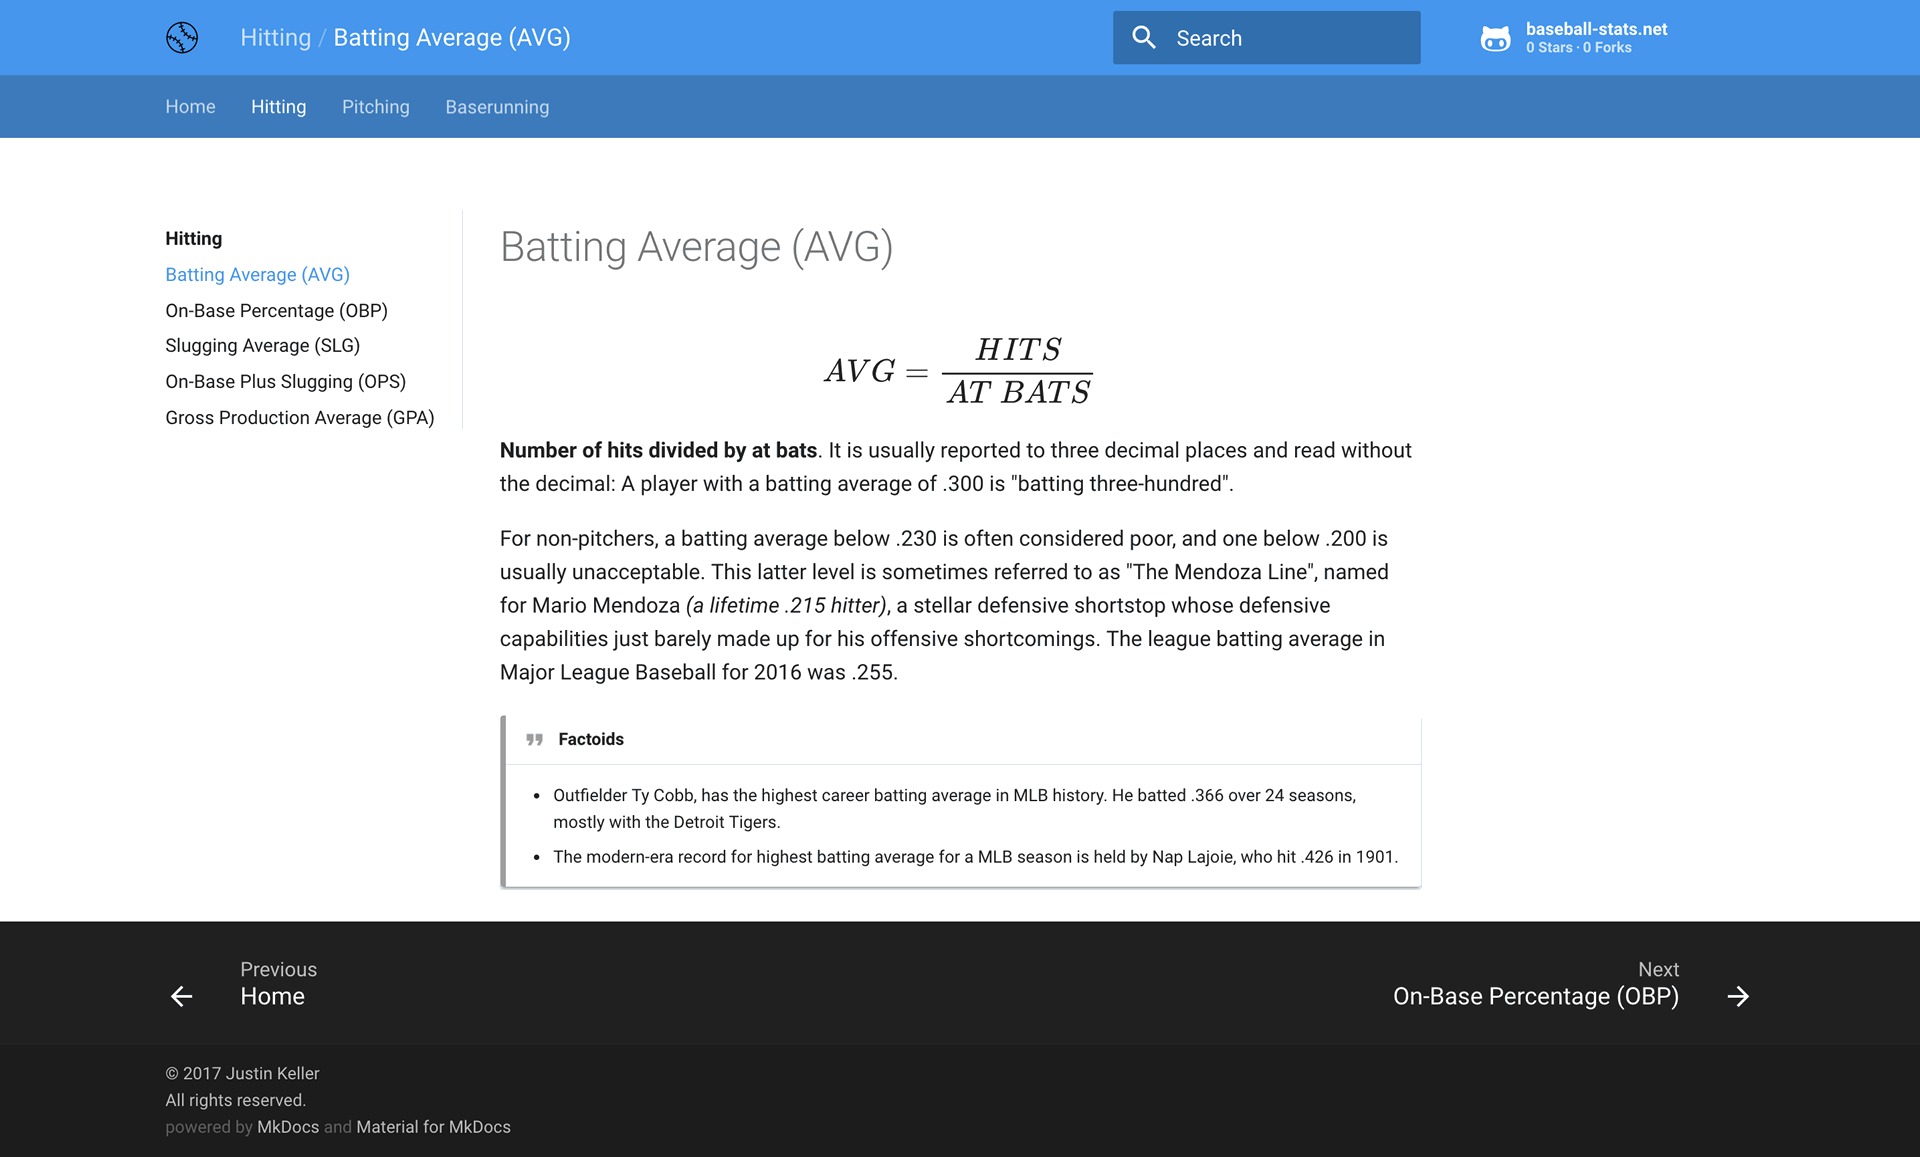
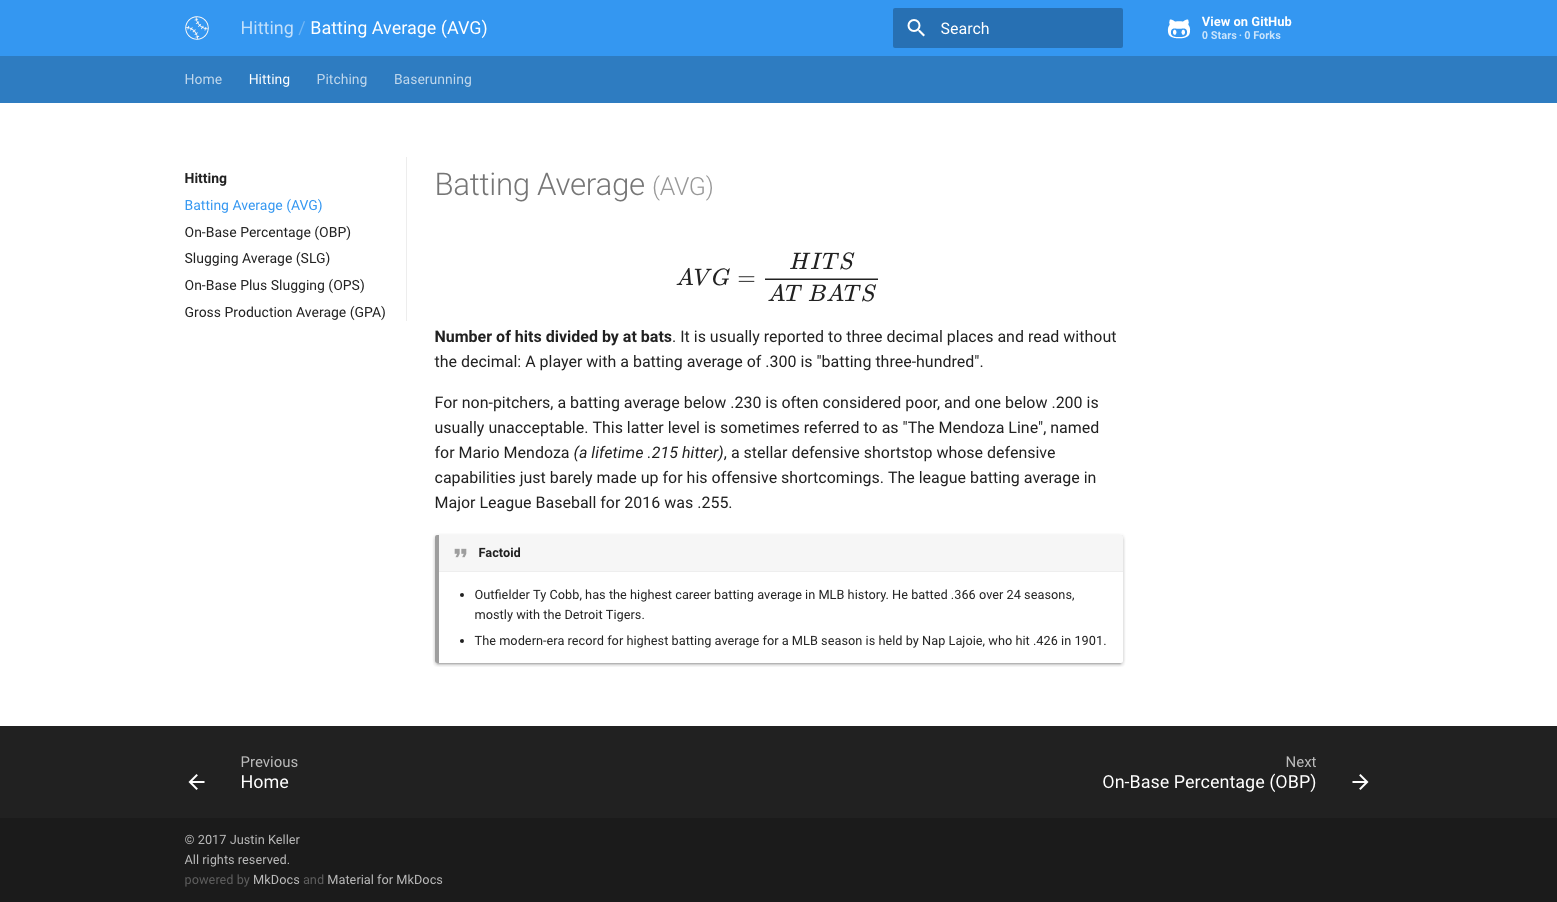
further standardization of pages

diff --git a/docs/hitting/avg.md b/docs/hitting/avg.md
@@ -1,4 +1,4 @@
-# Batting Average (AVG)
+# Batting Average <small>(AVG)</small>
 
 <h3>$$ AVG=\frac{HITS}{AT\ BATS} $$</h3>
 
@@ -6,7 +6,7 @@
 
 For non-pitchers, a batting average below .230 is often considered poor, and one below .200 is usually unacceptable. This latter level is sometimes referred to as "The Mendoza Line", named for Mario Mendoza *(a lifetime .215 hitter)*, a stellar defensive shortstop whose defensive capabilities just barely made up for his offensive shortcomings. The league batting average in Major League Baseball for 2016 was .255.
 
-!!! quote "Factoids"
+!!! quote "Factoid"
     * Outfielder Ty Cobb, has the highest career batting average in MLB history. He batted .366 over 24 seasons, mostly with the Detroit Tigers.
 
     * The modern-era record for highest batting average for a MLB season is held by Nap Lajoie, who hit .426 in 1901.

diff --git a/docs/index.md b/docs/index.md
@@ -1,7 +1,1 @@
-# "It's hard not to be romantic about baseball." - Billy Beane
-
-## [Hitting](hitting/avg.md)
-## [Pitching](pitching/era.md)
-## [Baserunning](baserunning/sbp.md)
-
-## $$ \frac{n!}{k!(n-k)!} = \binom{n}{k} $$
+# Home

diff --git a/docs/pitching/whip.md b/docs/pitching/whip.md
@@ -1,1 +1,1 @@
-# Walks And Hits Per Inning Pitched (WHIP)
+# Walks And Hits Per Inning Pitched <small>(WHIP)</small>

diff --git a/docs/pitching/aera.md b/docs/pitching/aera.md
@@ -1,1 +1,1 @@
-# Adjusted Earned Run Average (ERA+)
+# Adjusted Earned Run Average <small>(ERA+)</small>

diff --git a/docs/hitting/gpa.md b/docs/hitting/gpa.md
@@ -1,1 +1,1 @@
-# Gross Production Average (GPA)
+# Gross Production Average <small>(GPA)</small>

diff --git a/docs/pitching/kbb.md b/docs/pitching/kbb.md
@@ -1,1 +1,1 @@
-# Strikeout-To-Walk Ratio (K/BB)
+# Strikeout-To-Walk Ratio <small>(K/BB)</small>

diff --git a/docs/pitching/lobp.md b/docs/pitching/lobp.md
@@ -1,1 +1,1 @@
-# Left-On-Base Percentage (LOB%)
+# Left-On-Base Percentage <small>(LOB%)</small>

diff --git a/docs/baserunning/sbp.md b/docs/baserunning/sbp.md
@@ -1,1 +1,1 @@
-# Stolen Base Percentage (SB%)
+# Stolen Base Percentage <small>(SB%)</small>

diff --git a/docs/hitting/ops.md b/docs/hitting/ops.md
@@ -1,1 +1,1 @@
-# On-Base Plus Slugging (OPS)
+# On-Base Plus Slugging <small>(OPS)</small>

diff --git a/docs/pitching/pct.md b/docs/pitching/pct.md
@@ -1,1 +1,1 @@
-# Win/Loss Percentage (PCT)
+# Win/Loss Percentage <small>(PCT)</small>

diff --git a/docs/pitching/pfr.md b/docs/pitching/pfr.md
@@ -1,1 +1,1 @@
-# Power Finesse Ratio (PFR)
+# Power Finesse Ratio <small>(PFR)</small>

diff --git a/docs/hitting/obp.md b/docs/hitting/obp.md
@@ -1,1 +1,1 @@
-# On-Base Percentage (OBP)
+# On-Base Percentage <small>(OBP)</small>
